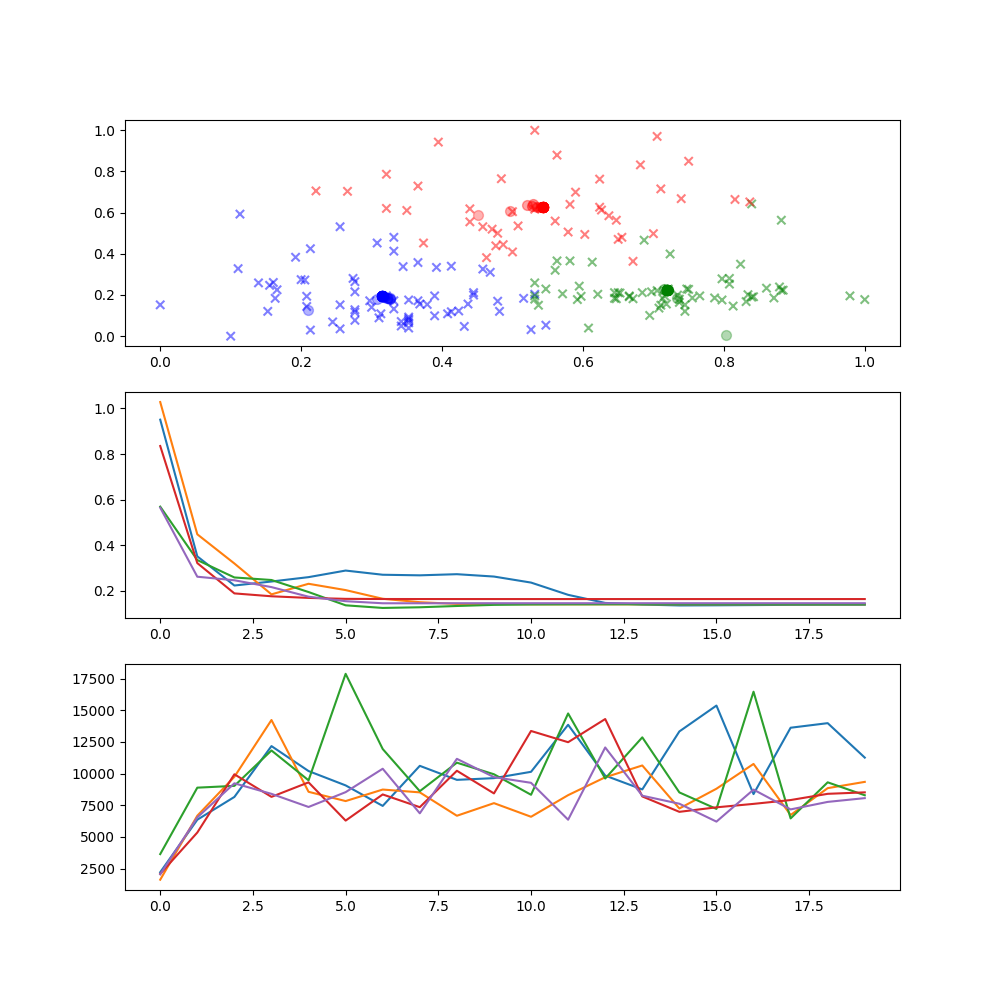
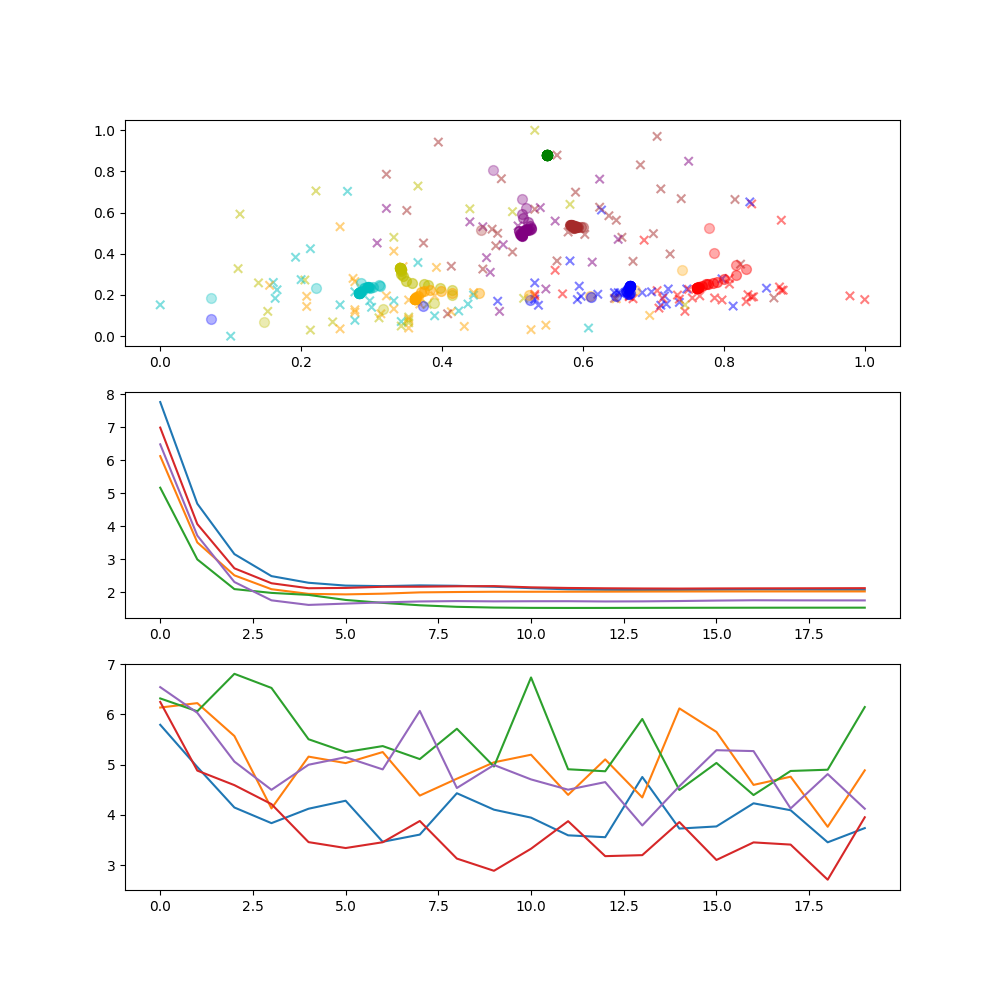
auto encoder

diff --git a/KmeansFIM.py b/KmeansFIM.py
@@ -12,9 +12,9 @@ import matplotlib.pyplot as plt
 
 
 ds = pd.read_csv('WineClusteringDS.csv')
-col_names = ds.columns[4:]
+col_names = ds.columns[8:]
 
-ds = ds.drop(col_names,axis=1)
+#ds = ds.drop(col_names,axis=1)
 
 #normalise data to 0-1
 ds = (ds-ds.min())/(ds.max()-ds.min())
@@ -31,7 +31,7 @@ num_cols = len(ds.columns)
 
 
 
-k = 3
+k = 8
 #Kmeans
 def KmeansInit(ds,k,num_cols):
     #initilise clusters
@@ -132,9 +132,9 @@ def calc_FIM(X, clusters):
         dists = np.zeros(k)
         for i in range(k):
             dists[i] = distance(x,clusters[i]['center'])# dist to each cluster
-        dists = dists/np.sum(dists) #to probs
+        pdists = dists/np.sum(dists) #to probs
         #print("dists",dists)
-        selected = np.random.choice(k,p=dists)#p=dists#selected cluster
+        selected = np.random.choice(k,p=pdists)#p=dists#selected cluster
         #selected = np.argmin(dists)
         y_hat = clusters[selected]['center'] # [num_cols]
         #print("x",x)
@@ -142,9 +142,14 @@ def calc_FIM(X, clusters):
         counts[selected] += 1
 
         for j in range(num_cols):
-            term1 = -y_hat[j]/distance(x,y_hat)**2
-            term2 = (-x[j]-y_hat[j])/distance(x,y_hat)
+            term1 = -y_hat[j]*(x[j]-y_hat[j])/distance(x,y_hat)**2
+            term2 = -y_hat[j]*(x[j]-y_hat[j])/(distance(x,y_hat)*np.sum(dists))
             g[selected,j] += term1+term2
+
+        # for j in range(num_cols):
+        #     term1 = -y_hat[j]/distance(x,y_hat)**2
+        #     term2 = (-x[j]-y_hat[j])/distance(x,y_hat)
+        #     g[selected,j] += term1+term2
 
     FIM = g**2
     FIM = np.sum(FIM,axis=None)
@@ -158,10 +163,10 @@ def calc_FIM(X, clusters):
         #FIM += np.sum(np.square(ln_g))
 
     print("counts",counts)
-    print("FIM",FIM)
     FIM = FIM/np.sum(counts)
     print("FIM",FIM)
     return FIM
+
 
 f,(ax1,ax2,ax3) = plt.subplots(3,1,figsize=(10,10))
 max_runs = 5
@@ -185,7 +190,7 @@ for run in range(max_runs):
 
         FIMs.append(calc_FIM(ds.values,clusters))
 
-        clusters = update_clusters_lr(ds.values,clusters,0.7)
+        clusters = update_clusters_lr(ds.values,clusters,0.5)
         #clusters = update_clusters(ds.values,clusters)
         if run == max_runs-1:
             a += (1-a)/r
@@ -198,6 +203,91 @@ for run in range(max_runs):
 pred = pred_cluster(ds.values,clusters)
 pred = [colors[i] for i in pred]
 ax1.scatter(ds['Alcohol'],ds['Malic_Acid'],c=pred,zorder=0,alpha=0.5,marker='x')
+
+#shallow network
+
+#convert the data to a tensor
+tds = tf.convert_to_tensor(ds.values,dtype=tf.float32)
+tds = tf.data.Dataset.from_tensor_slices((tds,tds)).shuffle(1000).batch(32)
+
+#this is an auto encoder that attempts to reconstruct the input via a latent space
+#the loss is the mean squared error between the input and the output
+encoding_dim = 32
+input_layer = tf.keras.layers.Input(shape=(num_cols,))
+encoder = tf.keras.layers.Dense(encoding_dim,activation='relu')(input_layer)
+encoder = tf.keras.layers.Dense(encoding_dim//2,activation='relu')(encoder)
+encoder = tf.keras.layers.Dense(encoding_dim//4,activation='relu')(encoder)
+decoder = tf.keras.layers.Dense(encoding_dim//2,activation='relu')(encoder)
+decoder = tf.keras.layers.Dense(encoding_dim,activation='relu')(decoder)
+decoder = tf.keras.layers.Dense(num_cols,activation='sigmoid')(decoder)
+autoencoder = tf.keras.models.Model(inputs=input_layer,outputs=decoder)
+autoencoder.compile(optimizer='adam',loss='mse')
+print(autoencoder.summary())
+
+
+
+
+def autoencoder_FIM(model,X):
+    #this function calculates the FIM of the autoencoder
+    #the FIM is calculated as the sum of the squared gradients of the output with respect to the input
+    #this is a monte carlo estimation of the FIM
+    #the FIM is calculated for each data point and then averaged
+    #the FIM is then averaged across all data points
+    FIM = 0
+    FIMe = 0
+    FIMd = 0
+    count = 0
+    for x in X:
+        x = tf.convert_to_tensor(x,dtype=tf.float32)
+        x = tf.expand_dims(x,0)
+        with tf.GradientTape() as tape:
+            tape.watch(x)
+            y_hat = model(x) #0-1 range
+            selected = tf.squeeze(tf.random.categorical(tf.math.log(y_hat),1)) #sample from distribution
+            output = tf.math.log(tf.gather(y_hat,selected,axis=1))
+        g = tape.gradient(output,model.trainable_variables)
+        #just the encoder layers
+        ge = tf.concat([tf.reshape(gv,[-1]) for gv in g[:5]],axis=0)
+        #just the decoder layers
+        gd = tf.concat([tf.reshape(gv,[-1]) for gv in g[5:]],axis=0)
+        g = tf.concat([tf.reshape(gv,[-1]) for gv in g],axis=0)
+        FIMe += tf.reduce_sum(ge**2)
+        FIMd += tf.reduce_sum(gd**2)
+        FIM += tf.reduce_sum(g**2)
+        count += 1
+    FIM = FIM/count
+    FIMe = FIMe/count
+    FIMd = FIMd/count
+    return FIM,FIMe,FIMd
+
+#train the autoencoder
+f2,(ax1,ax2) = plt.subplots(2,1,figsize=(10,10))
+FIMs = []
+FIMes = []
+FIMds = []
+losses = []
+
+for i in range(100):
+    print('Epoch: ',i*10)
+    hist = autoencoder.fit(tds,epochs=10,verbose=0)
+    print('Loss: ',hist.history['loss'])
+    FIM,FIMe,FIMd = autoencoder_FIM(autoencoder,ds.values)
+    losses.append(hist.history['loss'])
+    FIMs.append(FIM)
+    FIMes.append(FIMe)
+    FIMds.append(FIMd)
+
+ax1.plot(losses)
+ax2.plot(FIMs,label='TotalFIM')
+ax2.plot(FIMes,label='EncoderFIM')
+ax2.plot(FIMds,label='DecoderFIM')
+f2.savefig('WineClusteringDSAutoencoder.png')
+
+
+
+
+
+
 
 f.savefig('WineClusteringDSOG.png')
 

diff --git a/Mk2_Main.py b/Mk2_Main.py
@@ -57,40 +57,29 @@ def compute_metrics(data,model,epoch,FIM_bs=1,limit=None):
 
 
 #main run file
-def main():
+def main(config):
     #build model
-    config = {'loss_func':'sparse_categorical_crossentropy',
-                'data_name':'speech_commands',
-                'acc_sample_weight':None,
-                'optimizer':'Adam',
-                'lr':0.001,
-                'lr_decay_type':'fixed',
-                'label_smoothing':None,
-                'model_init_type':None,
-                'model_name':'speechcommandsCNN',
-                'model_vars': None, #var = [max_features,sequence_length,embedding_dim]
-                'num_classes':8,
-                'img_size':None,
-                }
+    
     strategy = None
 
     #load data
     print('Building Data')
-    data = DataClass.Data(config['data_name'],10,split=[0.8,0.2,0])
+    data = DataClass.Data(config['data_name'],config['batch_size'],split=[0.8,0.2,0])
     data.build_data()
 
     print('Building Model')
     model = ModelClass.Models(config,strategy,data)
     metric_limit = 1000
-    #compute_metrics(data,model,epoch=0,FIM_bs=5,limit=metric_limit)
+    compute_metrics(data,model,epoch=0,FIM_bs=5,limit=metric_limit)
 
     #train model
+    epochs_per_step = 1
     for i in range(25):
         #TODO There is a memory leak most likely with dataset building each epoch
         #tf error in converting index slices to tensors
-        print('Training Epoch: ',(i+1)*4)
-        model.model.fit(data.train_data,validation_data=data.test_data,epochs=4,callbacks=[wandb.keras.WandbCallback(save_model=False)])
-        #compute_metrics(data,model,epoch=(i+1)*4,FIM_bs=5,limit=metric_limit)
+        print('Training Epoch: ',(i+1)*epochs_per_step)
+        model.model.fit(data.train_data,validation_data=data.test_data,epochs=epochs_per_step,callbacks=[wandb.keras.WandbCallback(save_model=False)])
+        compute_metrics(data,model,epoch=(i+1)*epochs_per_step,FIM_bs=5,limit=metric_limit)
     
 
 
@@ -99,5 +88,20 @@ def main():
 if __name__ == '__main__':
     os.environ['WANDB_API_KEY'] = 'fc2ea89618ca0e1b85a71faee35950a78dd59744'
     wandb.login()
-    wandb.init(project="DomainFIMs")
-    main()
+
+    config = {'loss_func':'categorical_crossentropy',
+                'data_name':'newswire',
+                'acc_sample_weight':None,
+                'optimizer':'Adam',
+                'lr':0.0001,
+                'lr_decay_type':'fixed',
+                'batch_size':32,
+                'label_smoothing':None,
+                'model_init_type':None,
+                'model_name':'newswireConv1D',
+                'model_vars': [10000,250,16], #var = [max_features,sequence_length,embedding_dim]
+                'num_classes':46,
+                'img_size':None,
+                }
+    wandb.init(project="DomainFIMs",config=config)
+    main(config)

diff --git a/Mk2_Data.py b/Mk2_Data.py
@@ -98,6 +98,8 @@ class Data():
 
         self.train_batches = None    #number of batches in the dataset
         self.test_batches = None    #number of batches in the dataset
+        self.iter_train_data = None    #iterator for the training data
+        self.iter_batch_size = None    #batch size for the iterator
 
 
 
@@ -316,8 +318,8 @@ class Data():
         test_ds = tf.data.Dataset.from_tensor_slices((x_test, y_test))
 
         #shuffle and batch data
-        train_data = train_data.shuffle(self.train_count).batch(self.batch_size)
-        test_data = test_data.batch(self.batch_size)
+        train_ds = train_ds.shuffle(self.train_count).batch(self.batch_size)
+        test_ds = test_ds.batch(self.batch_size)
         self.current_train_batch_size = self.batch_size
 
         return train_ds, test_ds, None
@@ -414,9 +416,9 @@ class Data():
         if shuffle:
             self.train_data = self.train_data.shuffle(self.train_count)
         if bs != None:
-            if self.iter_batch_size != bs:
+            if self.iter_batch_size != bs or self.iter_train_data == None:
                 self.iter_train_data = self.train_data.unbatch()
-                self.iter_train_data = self.train_data.batch(bs)
+                self.iter_train_data = self.iter_train_data.batch(bs)
                 self.iter_batch_size = bs
                 print('Batch size updated to: ',bs)
         #self.train_batches = self.iter_train_count//bs

diff --git a/Mk2_Funcs.py b/Mk2_Funcs.py
@@ -173,13 +173,13 @@ def calc_FIM(ds,model,FIM_bs,limit=None,model_output_type='binary_logit'):
     
     data_count = 0
     s = 0
-    ds.build_iter_ds(shuffle=True,bs=FIM_bs)
+    ds.build_iter_ds(shuffle=False,bs=FIM_bs)
     for _ in range(limit//FIM_bs):
         if data_count/FIM_bs % 100 == 0:
             print(data_count)
         if model_output_type == 'binary_logit':
             z = model.Get_Z_logit(ds.get_batch())#returns [FIM_bs x 1]
-        elif model_output_type == 'softmax':
+        elif model_output_type in ['softmax','categorical']:
             z = model.Get_Z_softmax(ds.get_batch())
         else:
             z = model.Get_Z(ds.get_batch())#returns [FIM_bs x 1]

diff --git a/Mk2_Models.py b/Mk2_Models.py
@@ -1079,6 +1079,7 @@ class Models():
         j = tf.square(j) #square the jacobian [BS x num_params]
         j = tf.reduce_sum(j) #sum the jacobian [BS x 1]
         return j 
+    
 
     @tf.function
     def Get_Z_logit(self,items):
